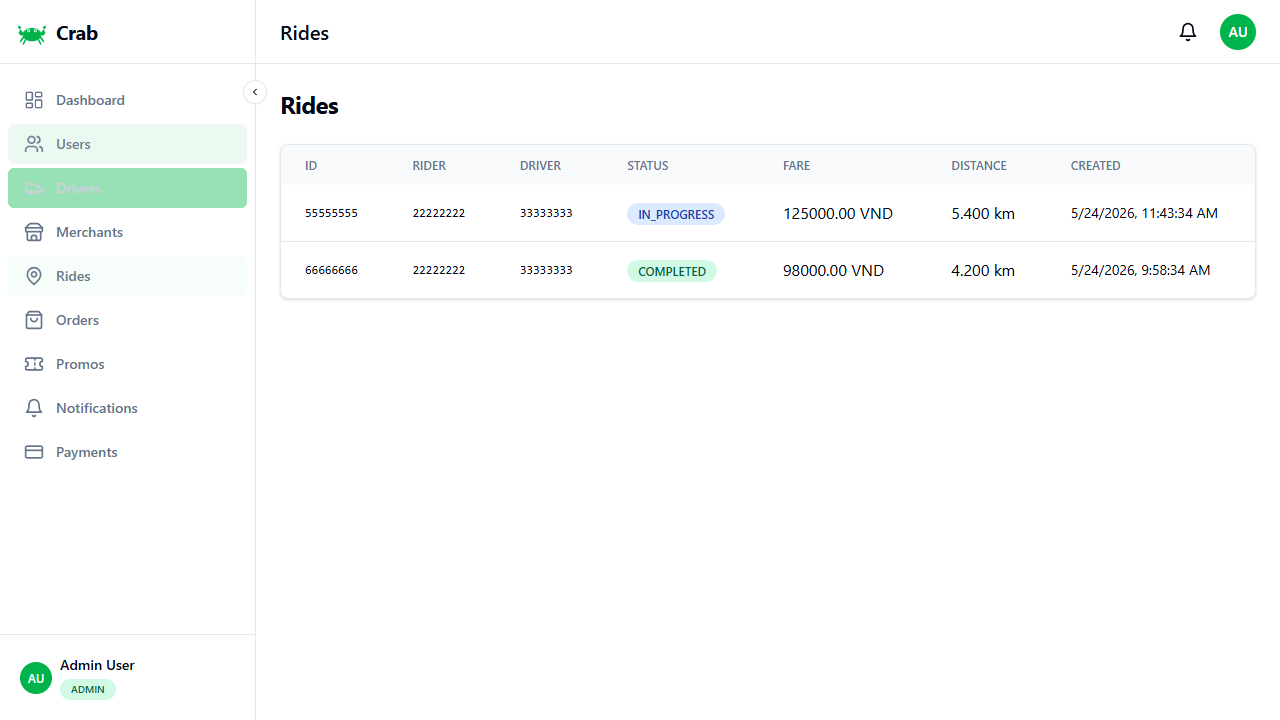
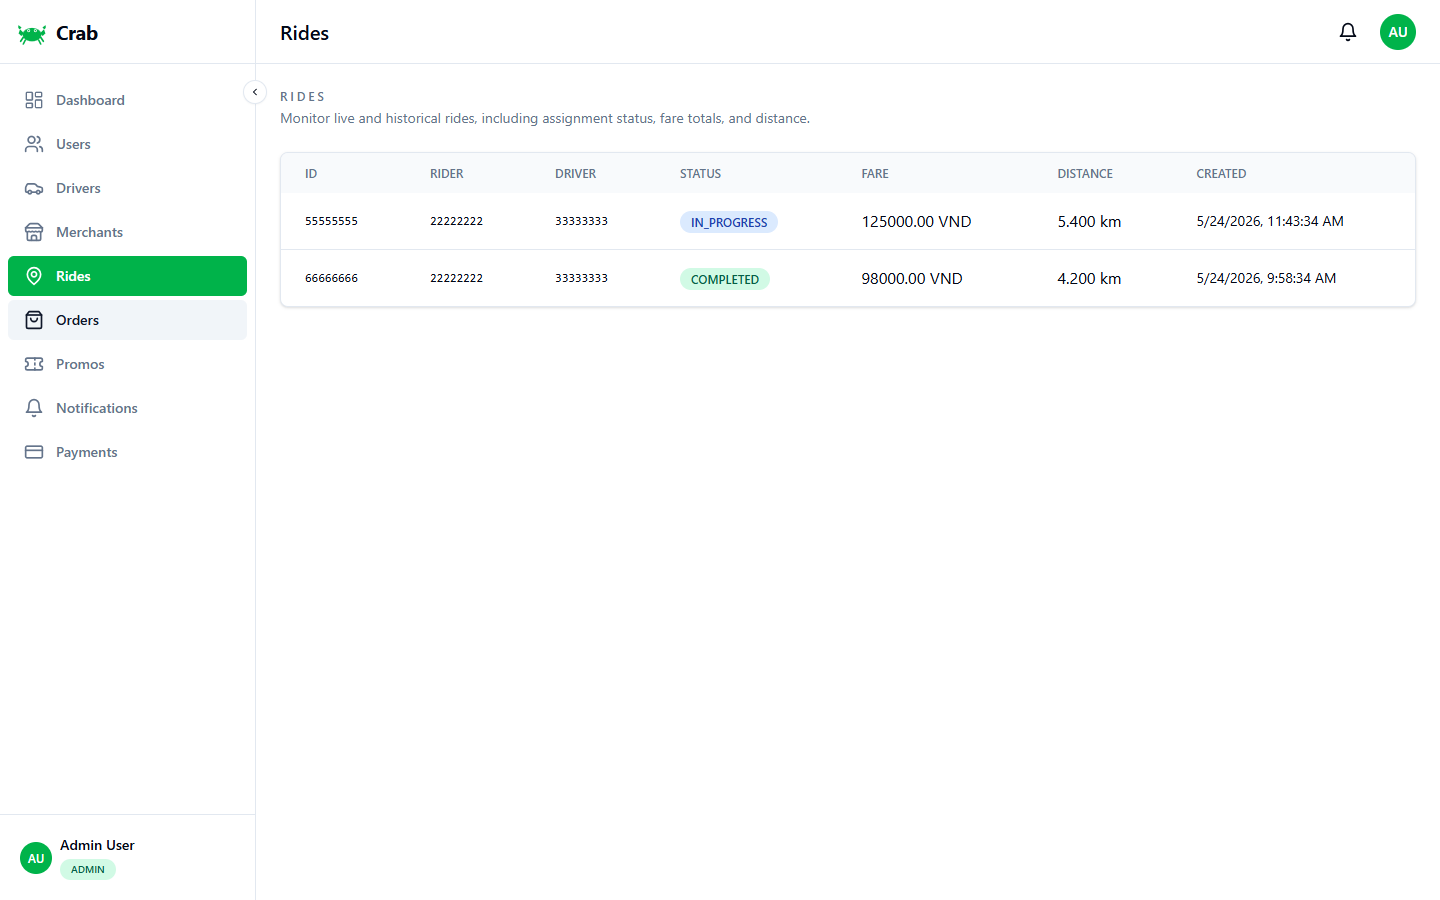
feat(web-admin): polish admin data views
Refine the table-heavy admin screens with lighter section intros, clearer table framing, and refreshed curated assets so the repo surface matches the more professional in-app hierarchy.

diff --git a/apps/web-admin/src/pages/Users.tsx b/apps/web-admin/src/pages/Users.tsx
@@ -57,8 +57,15 @@ export default function Users() {
 
   return (
     <div className="space-y-6">
-      <div className="flex items-center justify-between">
-        <h1 className="text-2xl font-bold tracking-tight">Users</h1>
+      <div className="flex items-end justify-between gap-4">
+        <div className="space-y-1">
+          <p className="text-xs font-semibold uppercase tracking-[0.24em] text-muted-foreground">
+            Users
+          </p>
+          <p className="text-sm text-muted-foreground">
+            Search accounts by name, email, or phone and page through recent signups.
+          </p>
+        </div>
         <Input
           type="text"
           placeholder="Search by name, email, phone..."
@@ -68,8 +75,13 @@ export default function Users() {
         />
       </div>
 
-      <div className="bg-card rounded-lg shadow border overflow-hidden">
-        <table className="w-full">
+      <div className="rounded-2xl border bg-card shadow-sm overflow-hidden">
+        <div className="flex items-center justify-between border-b bg-muted/30 px-6 py-3 text-sm text-muted-foreground">
+          <span>{filtered.length} visible users</span>
+          <span>20 records per page</span>
+        </div>
+        <div className="overflow-x-auto">
+          <table className="min-w-full">
           <thead className="bg-muted/50">
             <tr>
               <th className="text-left px-6 py-3 text-xs font-medium text-muted-foreground uppercase">
@@ -153,7 +165,8 @@ export default function Users() {
               ))
             )}
           </tbody>
-        </table>
+          </table>
+        </div>
       </div>
 
       <div className="flex justify-center gap-2">

diff --git a/apps/web-admin/src/pages/Orders.tsx b/apps/web-admin/src/pages/Orders.tsx
@@ -43,8 +43,15 @@ export default function Orders() {
 
   return (
     <div className="space-y-6">
-      <div className="flex items-center justify-between">
-        <h1 className="text-2xl font-bold tracking-tight">Orders</h1>
+      <div className="flex items-end justify-between gap-4">
+        <div className="space-y-1">
+          <p className="text-xs font-semibold uppercase tracking-[0.24em] text-muted-foreground">
+            Orders
+          </p>
+          <p className="text-sm text-muted-foreground">
+            Load recent orders for a restaurant and inspect customer, status, and payment totals.
+          </p>
+        </div>
         <div className="flex gap-2">
           <Input
             value={restaurantId}
@@ -58,8 +65,13 @@ export default function Orders() {
         </div>
       </div>
 
-      <div className="bg-card rounded-lg shadow border overflow-hidden">
-        <table className="w-full">
+      <div className="rounded-2xl border bg-card shadow-sm overflow-hidden">
+        <div className="flex items-center justify-between border-b bg-muted/30 px-6 py-3 text-sm text-muted-foreground">
+          <span>{orders.length} orders loaded</span>
+          <span>Lookup by restaurant ID</span>
+        </div>
+        <div className="overflow-x-auto">
+          <table className="min-w-full">
           <thead className="bg-muted/50">
             <tr>
               <th className="text-left px-6 py-3 text-xs font-medium text-muted-foreground uppercase">ID</th>
@@ -137,7 +149,8 @@ export default function Orders() {
               ))
             )}
           </tbody>
-        </table>
+          </table>
+        </div>
       </div>
     </div>
   )

diff --git a/apps/web-admin/src/pages/Drivers.tsx b/apps/web-admin/src/pages/Drivers.tsx
@@ -111,11 +111,21 @@ export default function Drivers() {
 
   return (
     <div className="space-y-6">
-      <h1 className="text-2xl font-bold tracking-tight">
-        Driver Verifications (Pending)
-      </h1>
-      <div className="bg-card rounded-lg shadow border overflow-hidden">
-        <table className="w-full">
+      <div className="space-y-1">
+        <p className="text-xs font-semibold uppercase tracking-[0.24em] text-muted-foreground">
+          Drivers
+        </p>
+        <p className="text-sm text-muted-foreground">
+          Review pending driver applications and approve or reject them with a clear reason.
+        </p>
+      </div>
+      <div className="rounded-2xl border bg-card shadow-sm overflow-hidden">
+        <div className="flex items-center justify-between border-b bg-muted/30 px-6 py-3 text-sm text-muted-foreground">
+          <span>{drivers.length} applications in review</span>
+          <span>Approval queue for new drivers</span>
+        </div>
+        <div className="overflow-x-auto">
+          <table className="min-w-full">
           <thead className="bg-muted/50">
             <tr>
               <th className="text-left px-6 py-3 text-xs font-medium text-muted-foreground uppercase">
@@ -212,7 +222,8 @@ export default function Drivers() {
               ))
             )}
           </tbody>
-        </table>
+          </table>
+        </div>
       </div>
 
       {/* Approve confirm */}

diff --git a/apps/web-admin/src/pages/Rides.tsx b/apps/web-admin/src/pages/Rides.tsx
@@ -42,9 +42,21 @@ export default function Rides() {
 
   return (
     <div className="space-y-6">
-      <h1 className="text-2xl font-bold tracking-tight">Rides</h1>
-      <div className="bg-card rounded-lg shadow border overflow-hidden">
-        <table className="w-full">
+      <div className="space-y-1">
+        <p className="text-xs font-semibold uppercase tracking-[0.24em] text-muted-foreground">
+          Rides
+        </p>
+        <p className="text-sm text-muted-foreground">
+          Monitor live and historical rides, including assignment status, fare totals, and distance.
+        </p>
+      </div>
+      <div className="rounded-2xl border bg-card shadow-sm overflow-hidden">
+        <div className="flex items-center justify-between border-b bg-muted/30 px-6 py-3 text-sm text-muted-foreground">
+          <span>{rides.length} rides loaded</span>
+          <span>Assignment, fare, and distance snapshot</span>
+        </div>
+        <div className="overflow-x-auto">
+          <table className="min-w-full">
           <thead className="bg-muted/50">
             <tr>
               <th className="text-left px-6 py-3 text-xs font-medium text-muted-foreground uppercase">ID</th>
@@ -127,7 +139,8 @@ export default function Rides() {
               ))
             )}
           </tbody>
-        </table>
+          </table>
+        </div>
       </div>
     </div>
   )
